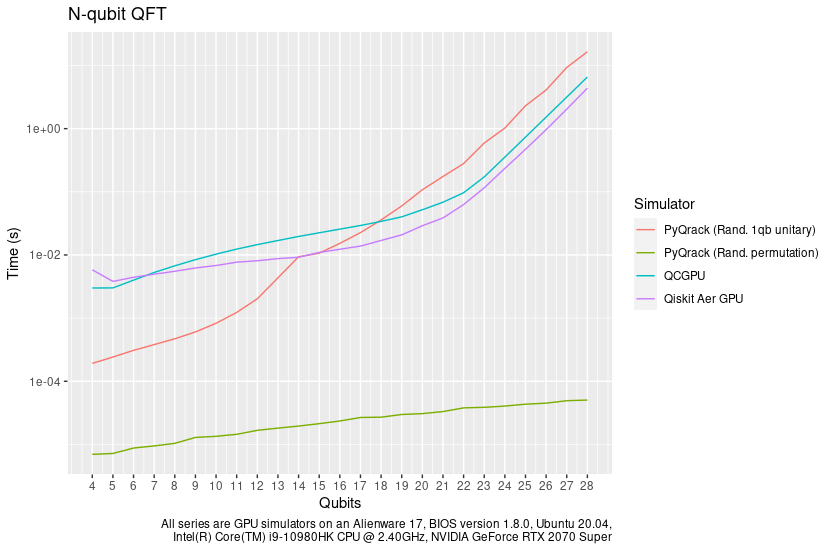
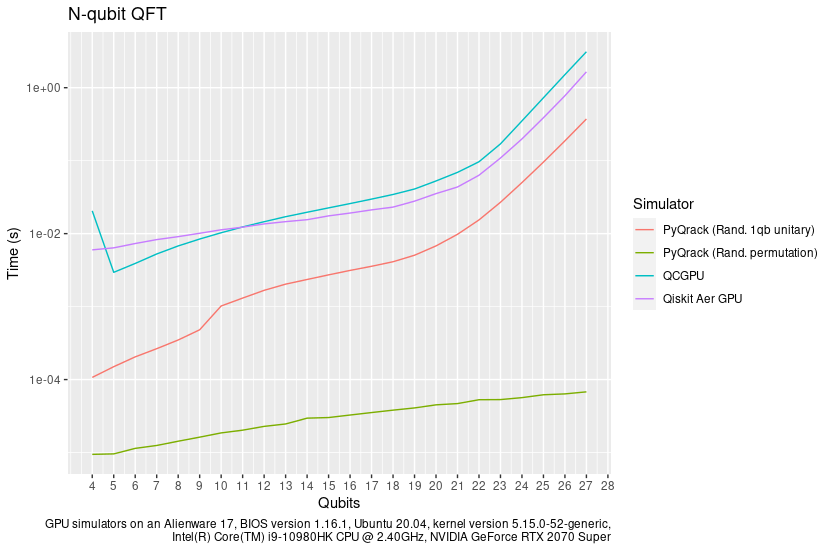
Qrack v8 performance

diff --git a/docs/performance.rst b/docs/performance.rst
@@ -37,17 +37,17 @@ Method
 
 This performance document is meant to be a simple, to-the-point, and preliminary digest of these results. These results were prepared with the generous financial support of the Unitary Fund. Our benchmark code is public, largely self-explanatory, and easily reproducible.
 
-100 timed trials of single and parallel gates were run for each qubit count between 4 and 28 qubits. Three tests were performed: the quantum Fourier transform, ("QFT"), random circuits constructed from a universal gate set, and an idealized approximation of Google's Sycamore chip benchmark, as per [Sycamore]_. Additionally, parallel single qubits and random input CCX gates to 20 layer depth were chosen to highlight use cases Qrack is particularly well-suited for. The benchmarking code is available at `https://github.com/vm6502q/simulator-benchmarks <https://github.com/vm6502q/simulator-benchmarks>`_. Default build and runtime options were used for all candidates. **Notably, this means Qrack ran at single floating point accuracy whereas QCGPU and Qiskit ran at double floating point accuracy.** Also, all optional PyQrack "layers" except CPU/GPU "hybridization" were disabled for Sycamore circuits, as this led to a drastic improvement in performance.
+100 timed trials of single and parallel gates were run for each qubit count between 4 and 27 qubits. Three tests were performed: the quantum Fourier transform, ("QFT"), random circuits constructed from a universal gate set, and an idealized approximation of Google's Sycamore chip benchmark, as per [Sycamore]_. Additionally, parallel single qubits and random input CCX gates to 20 layer depth were chosen to highlight use cases Qrack is particularly well-suited for. The benchmarking code is available at `https://github.com/vm6502q/simulator-benchmarks <https://github.com/vm6502q/simulator-benchmarks>`_. Default build and runtime options were used for all candidates. **Notably, this means Qrack ran at single floating point accuracy whereas QCGPU and Qiskit ran at double floating point accuracy.**
 
-The same Alienware 17 laptop device was used for all benchmarks, (BIOS version 1.8.0, Intel(R) Core(TM) i9-10980HK CPU @ 2.40GHz, NVIDIA GeForce RTX 2070 Super). Benchmarks were collected from the week of October 3, 2021 through October 16, 2021.
+The same Alienware 17 laptop device was used for all benchmarks, (BIOS version 1.16.1, Ubuntu 20.04 LTS, Linux kernel version 5.15.0-52-generic, Intel(R) Core(TM) i9-10980HK CPU @ 2.40GHz, NVIDIA GeForce RTX 2070 Super). Benchmarks for the QFT, random universal circuits, and idealized Sycamore circuits were collected on October 24, 2022. (All other charts from data collected earlier are included for qualitative argument.)
 
 Comparative benchmarks included QCGPU, the Qiskit-Aer GPU simulator, and Qrack's default typically optimal "stack" of a "QUnit" layer on top of "QStabilizerHybrid," on top of "QPager," on top of a new Pauli gate fusion layer, on top of "QHybrid." All of these candidates are GPU-based, though Qrack "hybridizes" with CPU based simulation as appropriate to improve performance.
 
 QFT benchmarks could be implemented in a straightforward manner on all simulators, and were run as such. Qrack appears to be the only candidate considered for which inputs into the QFT can (drastically) affect its execution time, with permutation basis states being run in much shorter time, for example, hence only Qrack required a more general random input, whereas all other simulators were started in the |0> state. For a sufficiently representatively general test, Qrack instead used registers of single separable qubits intialized with uniformly randomly distributed probability between |0> and |1>, and uniformly randomly distributed phase offset between those states. Random permutation basis eigenstate initialization is also presented for Qrack, to demonstrate the quantitative difference, though we do not think this a representative test in itself.
 
-Random universal circuits carried out layers of single qubit gates on every qubit in the width of the test, followed by layers randomly selected couplings of (2-qubit) SWAP, CZ, CNOT, or (3-qubit) CCNOT, eliminating each selected bit for the layer. 20 layers of 1-qubit-plus-multi-qubit iterations were carried out, for each qubit width, for the benchmarks presented here.
+Random universal circuits carried out layers of single qubit gates on every qubit in the width of the test, followed by layers randomly selected couplings of (2-qubit) SWAP/CNOT/CY/CZ, eliminating each selected bit for the layer. 10 layers of 1-qubit-plus-multi-qubit iterations were carried out, for each qubit width, for the benchmarks presented here.
 
-Sycamore circuits were carried out similarly to random universal circuits and the method of the [Sycamore]_ paper, interleaving 1-qubit followed by 2-qubit layers, to depth of 20 layers each. Whereas as that original source appears to have randomly fixed its target circuit ahead of any trials, and then carried the same pre-selected circuit out repeatedly for the required number of trials, all benchmarks in the case of this report generated their circuits per-iteration on-the-fly, per the selection criteria as read from the text of [Sycamore]_. Qrack easily implemented the original Sycamore circuit exactly. By nature of the Schrödinger method simulation used in each other candidate, atomic "convenience method" 1-qubit and 2-qubit gate definitions could potentially easily be added to other candidates for this test, hence **we thought it most representative to make largely performance-irrelevant substitutions of "SWAP" for "iSWAP" for those candidates which did not already define sufficient API convenience methods for "Sycamore" circuits,** without nonrepresentatively complicated gate decompositions. (Specifically, this is only QCGPU.) We strongly encourage the reader to inspect and independently execute the simple benchmarking code which was already linked in the beginning of this "Method" section, for total specific detail.
+Sycamore circuits were carried out similarly to random universal circuits and the method of the [Sycamore]_ paper, interleaving 1-qubit followed by 2-qubit layers, to depth of 10 layers each. Whereas as that original source appears to have randomly fixed its target circuit ahead of any trials, and then carried the same pre-selected circuit out repeatedly for the required number of trials, all benchmarks in the case of this report generated their circuits per-iteration on-the-fly, per the selection criteria as read from the text of [Sycamore]_. Qrack easily implemented the original Sycamore circuit exactly. By nature of the Schrödinger method simulation used in each other candidate, atomic "convenience method" 1-qubit and 2-qubit gate definitions could potentially easily be added to other candidates for this test, hence **we thought it most representative to make largely performance-irrelevant substitutions of "SWAP" for "iSWAP" for those candidates which did not already define sufficient API convenience methods for "Sycamore" circuits,** without nonrepresentatively complicated gate decompositions. (Specifically, this is only QCGPU.) We strongly encourage the reader to inspect and independently execute the simple benchmarking code which was already linked in the beginning of this "Method" section, for total specific detail.
 
 Qrack QEngine type heap usage was established as very closely matching theoretical expections, in earlier benchmarks, and this has not fundamentally changed. QUnit type heap usage varies greatly dependent on use case, though not in significant excess of QEngine types. No representative RAM benchmarks have been established for QUnit types, yet.
 
